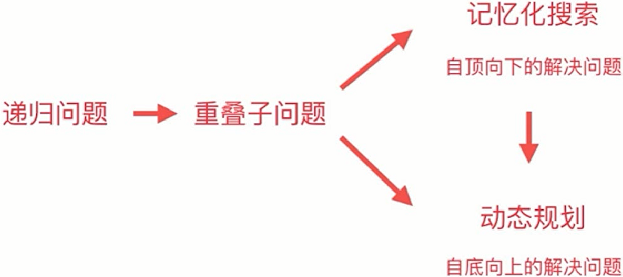
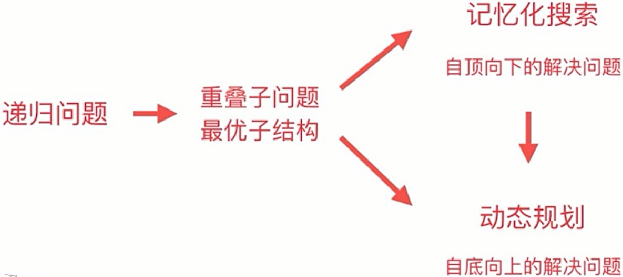
7211

diff --git a/_posts/技术/2021-06-03-dynamic-programming.md b/_posts/技术/2021-06-03-dynamic-programming.md
@@ -26,7 +26,7 @@ for 状态1 in 状态1的所有取值：
             dp[状态1][状态2][...] = 求最值（选择1，选择2，...）  // 状态转移方程
 ```
 
-大多数动态规划问题本质都是递归的问题，递归的过程中存在重叠子问题（即存在相同情况重复计算），对于重叠子问题，一可以采用记忆化搜索来解决（自顶向下的解决问题），二可以采用动态规划来解决（自底向上的解决问题，本质上和记忆化搜索是一样的）。  
+大多数动态规划问题本质都是递归的问题，递归的过程中存在重叠子问题（即存在相同情况重复计算），也存在最有子结构（性质：针对求解的问题是求解一个最优化的问题，要求得整个问题的最优解只需求出所有子问题的最优解，求子问题最优解的过程中还存在重叠子问题的形式）。对于重叠子问题，一可以采用记忆化搜索来解决（自顶向下的解决问题），二可以采用动态规划来解决（自底向上的解决问题，本质上和记忆化搜索是一样的）。  
 对于动态规划问题，一般自顶向下的思考问题比自底向上容易，所以一般先自顶向下的思考问题，之后再使用自顶向上的方法来进行实现。（**解决动态规划问题应该的思考顺序过程**）  
 ![](/images/2021-06-03-dynamic-programming/introduction.png)  
 具体可以参照120题为例。
